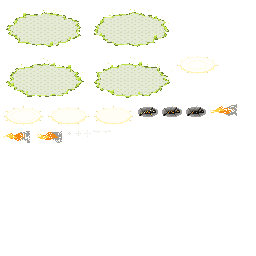
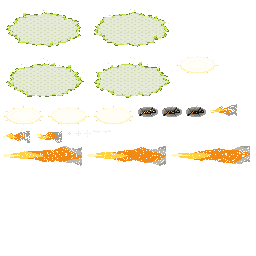
Item 3: flame_cone_long (3 frames, 82 px, loop4-fx-atlas) for Flamer shots >= 56 px; 26 px flame_cone chain kept for short shots

Changed region(s): [[0.0, 0.5625, 1.0, 0.6562]]

diff --git a/game.js b/game.js
@@ -1851,6 +1851,7 @@ function drawFx(c, f) {
     case 'spark': c.globalAlpha = 1 - p; c.fillStyle = f.c; for (let k = 0; k < 4; k++) circ(c, f.x + Math.cos(k * 1.6 + f.x) * p * 10, f.y + Math.sin(k * 1.6 + f.y) * p * 10, 1.5); break;
     case 'flame': if (f.ux !== undefined && typeof UnitArt !== 'undefined' && UnitArt.fxFrame('flame_cone', 0)) { // art flame_cone (~15 fps) at the nozzle (+8 along the aim, 7 px up), chained to reach the target
         const ny = f.uy - 7, a = Math.atan2(f.y2 - ny, f.x2 - f.ux), x0 = f.ux + Math.cos(a) * 8, y0 = ny + Math.sin(a) * 8, L = Math.hypot(f.x2 - x0, f.y2 - y0), k0 = Math.floor(f.t * 15);
+        if (L >= 56 && UnitArt.fxFrame('flame_cone_long', 0)) { UnitArt.drawFx(c, 'flame_cone_long', k0, x0, y0, a, 1, { add: true, alpha: 1 - p * 0.6 }); break; }   // units HANDOFF §9.4: one ~80 px jet
         const n = Math.max(1, Math.ceil(L / 26)); for (let k = 0; k < n; k++) UnitArt.drawFx(c, 'flame_cone', k0 + k, x0 + Math.cos(a) * k * 26, y0 + Math.sin(a) * k * 26, a, 1, { add: true, alpha: (1 - p * 0.6) * (1 - k / (n + 1) * 0.5) });
         break; }
       { c.globalCompositeOperation = 'lighter'; const a = Math.atan2(f.y2 - f.y1, f.x2 - f.x1), L = Math.hypot(f.x2 - f.x1, f.y2 - f.y1) + 8; c.translate(f.x1, f.y1); c.rotate(a);

diff --git a/tests/loop4art.test.js b/tests/loop4art.test.js
@@ -109,7 +109,7 @@ test('loop 4 units: SETS + UNIT_MAP, every facing selects a frame (W mirrored); 
     }
   }
   const fx = UA.parseFxManifest(J('units/loop4-fx-atlas.json'));
-  for (const [k, n] of Object.entries({ holy_aura: 4, plague_aura: 4, burn_decal: 3, flame_cone: 3, heal_beam: 2, heal_plus: 3 })) assert.equal(fx.fx.get(k).filter(Boolean).length, n, k);
+  for (const [k, n] of Object.entries({ holy_aura: 4, plague_aura: 4, burn_decal: 3, flame_cone: 3, flame_cone_long: 3, heal_beam: 2, heal_plus: 3 })) assert.equal(fx.fx.get(k).filter(Boolean).length, n, k);
   assert.equal(UA.SETS['fx:l4'].kind, 'fx');
 });
 
